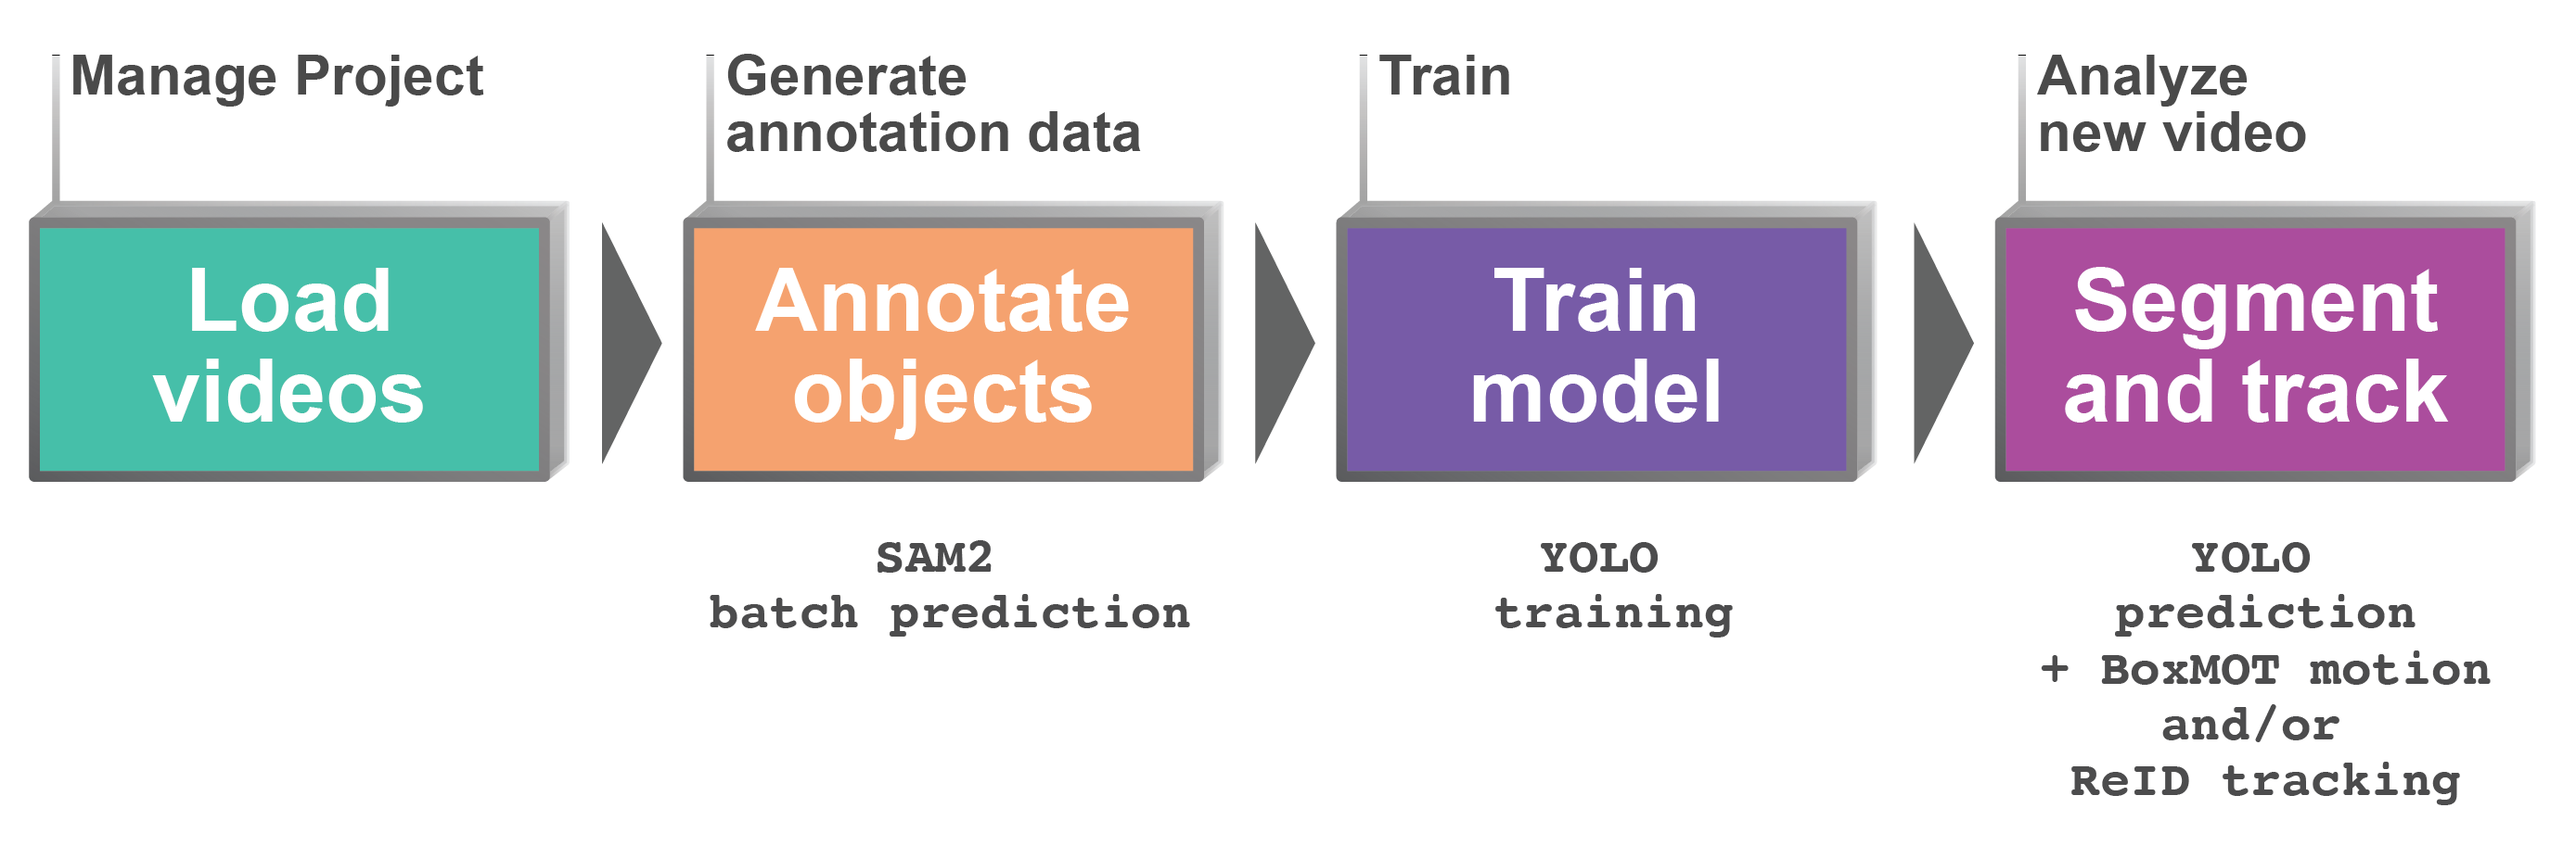
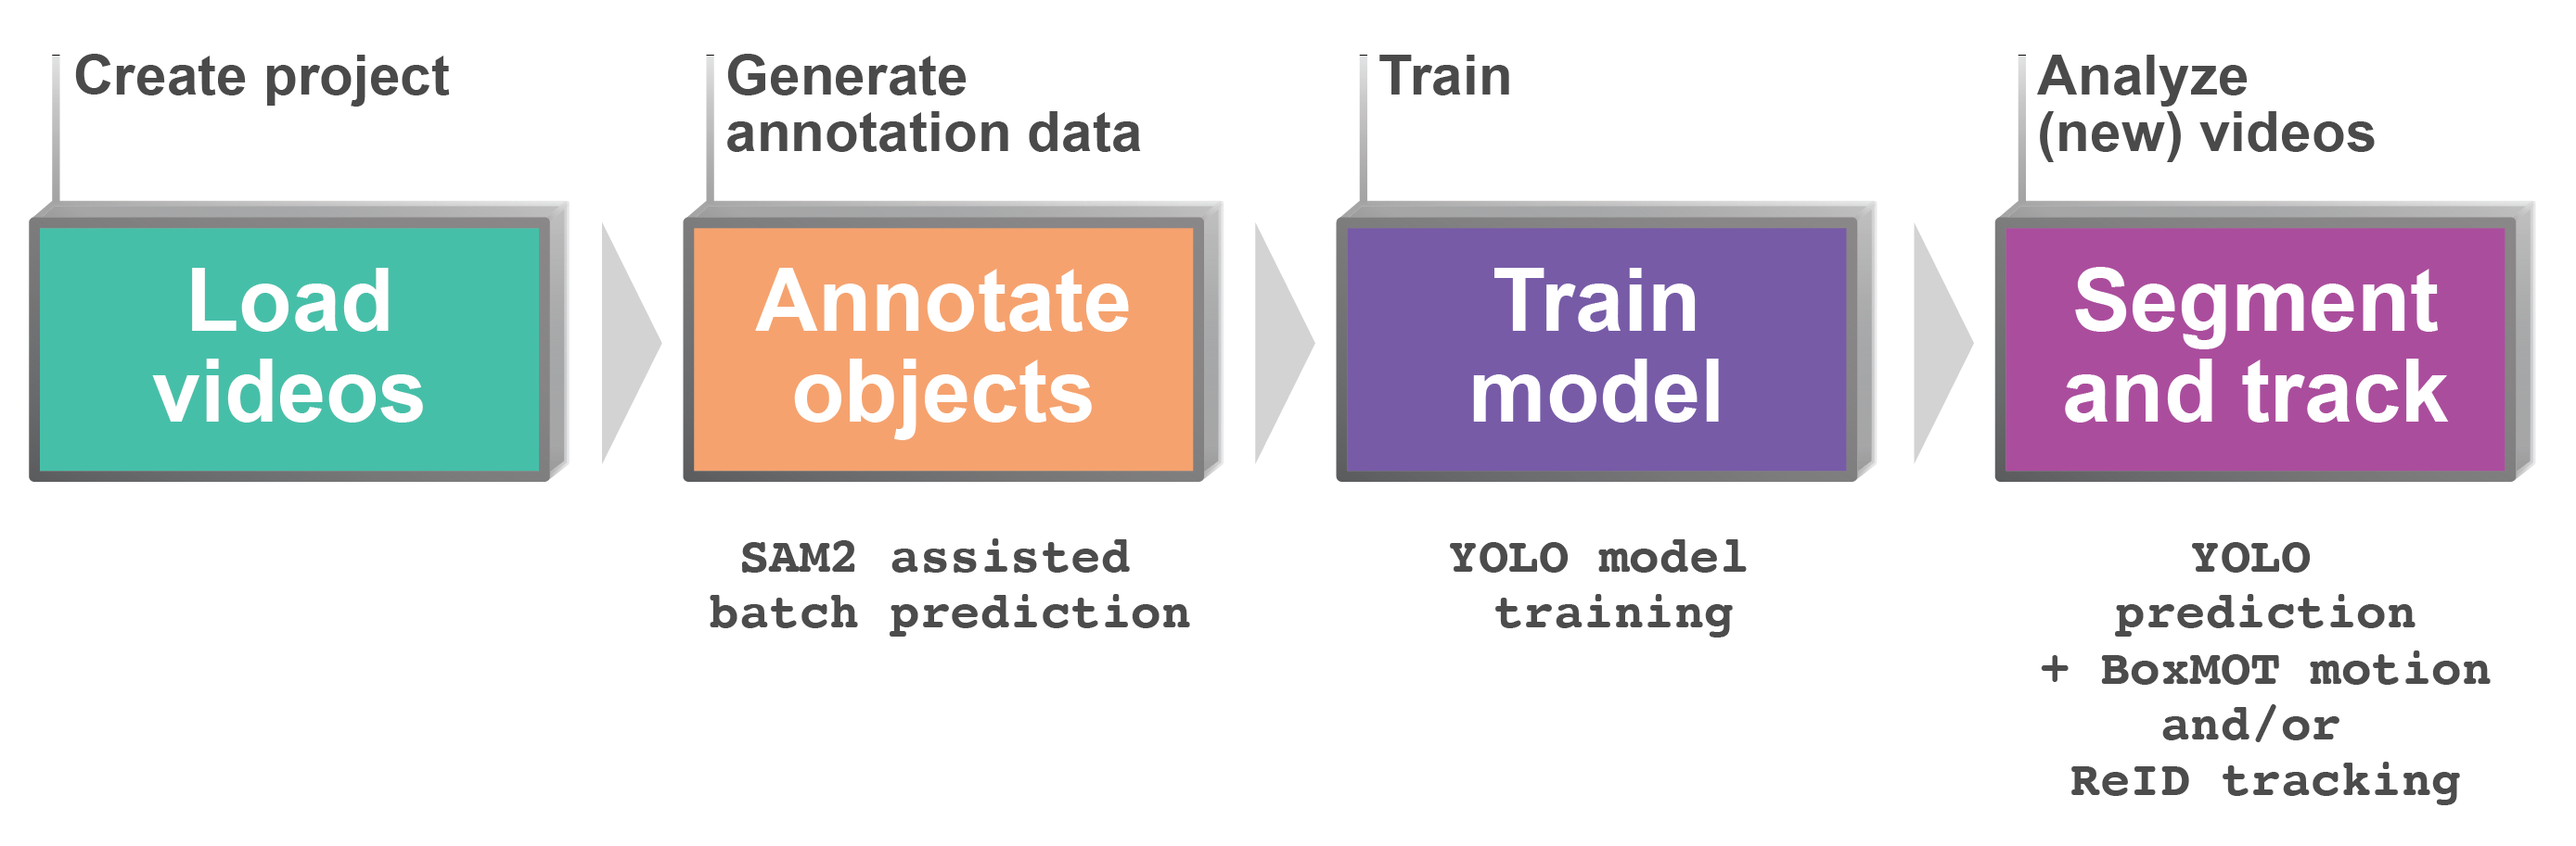
Updated workflow png

diff --git a/docs/index.md b/docs/index.md
@@ -8,7 +8,7 @@ OCTRON is built on [napari](https://www.napari.org), [segment anything](https://
 The main steps implemented in OCTRON typically include: Loading video data from behavioral experiments, annotating frames to create training data for segmentation, training machine learning models for segmentation and tracking, and finally applying models to new data for automated tracking.
 <br>
 <br>
-<img src="assets/workflow.png" alt="OCTRON workflow" width="95%" style="display: block; margin-left: auto; margin-right: auto; margin-bottom: .5rem;" />
+<img src="assets/workflow.png" alt="OCTRON workflow" width="92%" style="display: block; margin-left: auto; margin-right: auto; margin-bottom: .5rem;" />
 <br>
 <video width="100%" muted controls poster="assets/videos/poster_frame.jpg" style="display: block; margin-left: auto; margin-right: auto;">
   <source src="assets/videos/MAIN.mp4" type="video/mp4">
